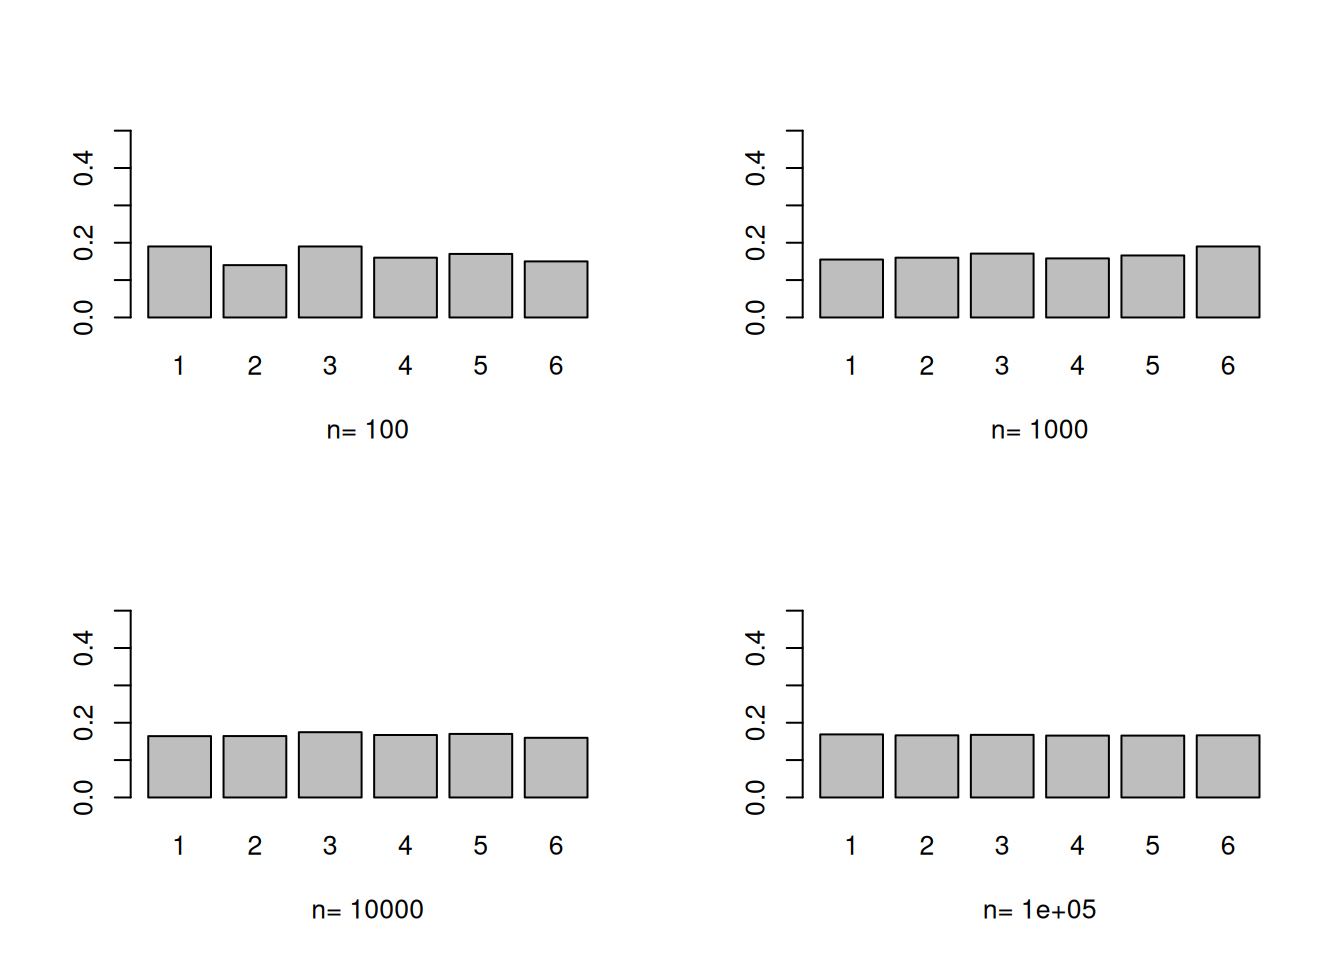
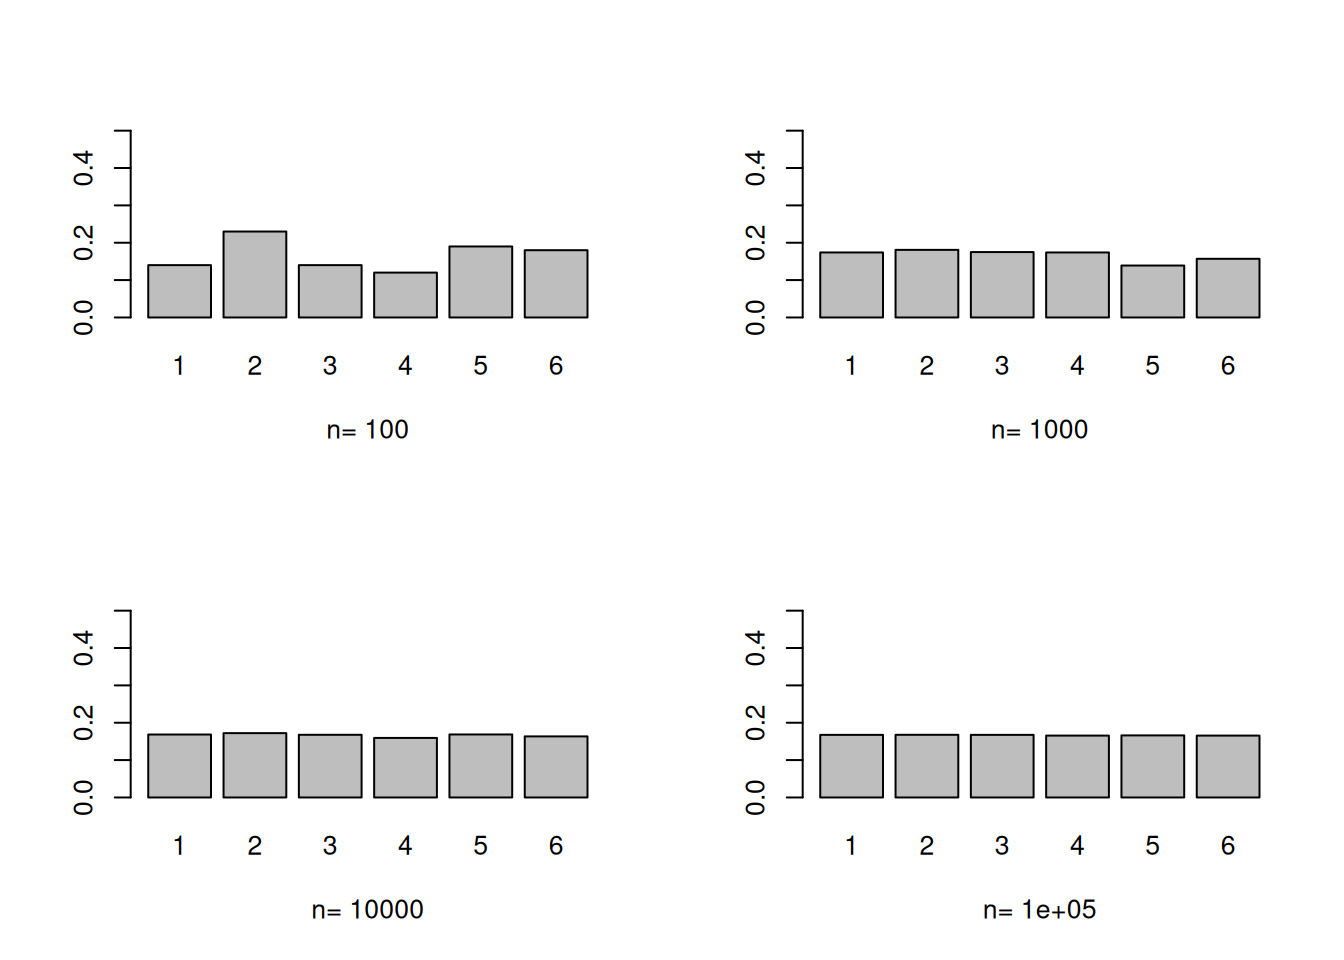
Built site for gh-pages

diff --git a/index.html b/index.html
@@ -435,7 +435,7 @@ window.Quarto = {
 <span class="listing-date">2024-10-05</span>
 </td>
 </tr>
-<tr data-index="24" data-categories="인간 공학" data-listing-date-sort="1727103600000" data-listing-file-modified-sort="1728203403126" data-listing-date-modified-sort="NaN" data-listing-reading-time-sort="2" data-listing-word-count-sort="347" data-listing-title-sort="Sensor System (Visual)" data-listing-filename-sort="3_sensory_system.qmd" onclick="href = this.querySelector('a').getAttribute('href');
+<tr data-index="24" data-categories="인간 공학" data-listing-date-sort="1727103600000" data-listing-file-modified-sort="1728250203593" data-listing-date-modified-sort="NaN" data-listing-reading-time-sort="2" data-listing-word-count-sort="349" data-listing-title-sort="Sensor System (Visual)" data-listing-filename-sort="3_sensory_system.qmd" onclick="href = this.querySelector('a').getAttribute('href');
  if (href) { window.location=href ; return false; }">
 <td>
 <a href="./posts/human/3_sensory_system.html" class="title listing-title">Sensor System (Visual)</a>
@@ -543,7 +543,7 @@ window.Quarto = {
 <span class="listing-date">2024-09-11</span>
 </td>
 </tr>
-<tr data-index="36" data-categories="인간 공학" data-listing-date-sort="1725894000000" data-listing-file-modified-sort="1728203204439" data-listing-date-modified-sort="NaN" data-listing-reading-time-sort="4" data-listing-word-count-sort="682" data-listing-title-sort="Research Method in Human Factors" data-listing-filename-sort="1_reaserch_method.qmd" onclick="href = this.querySelector('a').getAttribute('href');
+<tr data-index="36" data-categories="인간 공학" data-listing-date-sort="1725894000000" data-listing-file-modified-sort="1728249982749" data-listing-date-modified-sort="NaN" data-listing-reading-time-sort="4" data-listing-word-count-sort="682" data-listing-title-sort="Research Method in Human Factors" data-listing-filename-sort="1_reaserch_method.qmd" onclick="href = this.querySelector('a').getAttribute('href');
  if (href) { window.location=href ; return false; }">
 <td>
 <a href="./posts/human/1_reaserch_method.html" class="title listing-title">Research Method in Human Factors</a>

diff --git a/posts/stat/3.html b/posts/stat/3.html
@@ -286,11 +286,11 @@ pre > code.sourceCode > span > a:first-child::before { text-decoration: underlin
 <div class="cell">
 <div class="sourceCode cell-code" id="cb11"><pre class="sourceCode r code-with-copy"><code class="sourceCode r"><span id="cb11-1"><a href="#cb11-1" aria-hidden="true" tabindex="-1"></a><span class="fu">sample</span>(<span class="dv">1</span><span class="sc">:</span><span class="dv">20</span>, <span class="dv">10</span>, <span class="at">replace=</span>T)</span></code><button title="Copy to Clipboard" class="code-copy-button"><i class="bi"></i></button></pre></div>
 <div class="cell-output cell-output-stdout">
-<pre><code> [1] 15 11 13  1 12  9 19 16 18 11</code></pre>
+<pre><code> [1]  3  1 15 13  5  7  1  7  6  6</code></pre>
 </div>
 <div class="sourceCode cell-code" id="cb13"><pre class="sourceCode r code-with-copy"><code class="sourceCode r"><span id="cb13-1"><a href="#cb13-1" aria-hidden="true" tabindex="-1"></a><span class="fu">sample</span>(<span class="fu">c</span>(<span class="st">'H'</span>, <span class="st">'T'</span>), <span class="dv">10</span>, <span class="at">replace=</span>T, <span class="at">prob=</span><span class="fu">c</span>(<span class="fl">0.3</span>, <span class="fl">0.7</span>))</span></code><button title="Copy to Clipboard" class="code-copy-button"><i class="bi"></i></button></pre></div>
 <div class="cell-output cell-output-stdout">
-<pre><code> [1] "H" "T" "T" "T" "H" "T" "T" "H" "T" "T"</code></pre>
+<pre><code> [1] "T" "T" "T" "T" "H" "T" "H" "T" "H" "T"</code></pre>
 </div>
 <div class="sourceCode cell-code" id="cb15"><pre class="sourceCode r code-with-copy"><code class="sourceCode r"><span id="cb15-1"><a href="#cb15-1" aria-hidden="true" tabindex="-1"></a><span class="fu">par</span>(<span class="at">mfrow=</span><span class="fu">c</span>(<span class="dv">2</span>,<span class="dv">2</span>))</span>
 <span id="cb15-2"><a href="#cb15-2" aria-hidden="true" tabindex="-1"></a><span class="cf">for</span> (i <span class="cf">in</span> <span class="fu">c</span>(<span class="dv">100</span>, <span class="dv">1000</span>, <span class="dv">10000</span>, <span class="dv">100000</span>)) {</span>

diff --git a/posts/human/3_sensory_system.html b/posts/human/3_sensory_system.html
@@ -208,6 +208,7 @@ ul.task-list li input[type="checkbox"] {
 <h2 class="anchored" data-anchor-id="depth-perception">depth perception</h2>
 <section id="depth-judgment" class="level3">
 <h3 class="anchored" data-anchor-id="depth-judgment">depth judgment</h3>
+<p><img src="../../home/cryscham123/soongsil/2024-2/posts/human/img/2024-10-07-06-29-59.png" class="img-fluid"></p>
 <ol type="1">
 <li>object-centered cues</li>
 </ol>
@@ -220,7 +221,7 @@ ul.task-list li input[type="checkbox"] {
 <li>texture gradient: 물체가 멀어질수록 세부적인 텍스처가 사라짐</li>
 <li>brightness: 물체가 밝을수록 더 가까이 있는 것으로 인식</li>
 <li>aerial perspective: 물체가 먼발에서 가까워질수록 색이 흐려짐</li>
-<li>motion parallax: 물체가 빠르게 움직일수록 더 가까이 있는 것으로 인식</li>
+<li>motion parallax: 물체가 빠르게 움직일수록 더 가까이 있는 것으로 인식 fixation point</li>
 </ul>
 <ol start="2" type="1">
 <li>observer-centered cues</li>

diff --git a/posts/human/1_reaserch_method.html b/posts/human/1_reaserch_method.html
@@ -221,6 +221,7 @@ ul.task-list li input[type="checkbox"] {
 <li>validity: measure what was intended</li>
 </ul></li>
 </ul>
+<p><img src="../../home/cryscham123/soongsil/2024-2/posts/human/img/2024-10-07-06-26-15.png" class="img-fluid"></p>
 </section>
 </section>
 <section id="why-use-experimental-research" class="level4">
